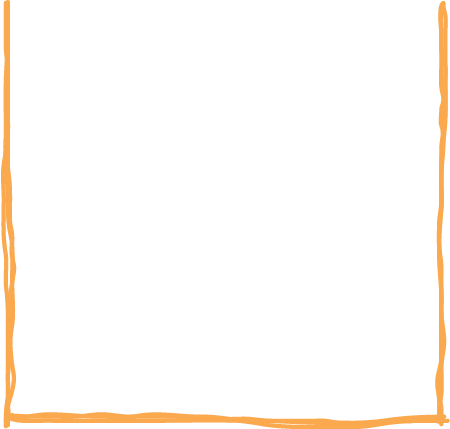
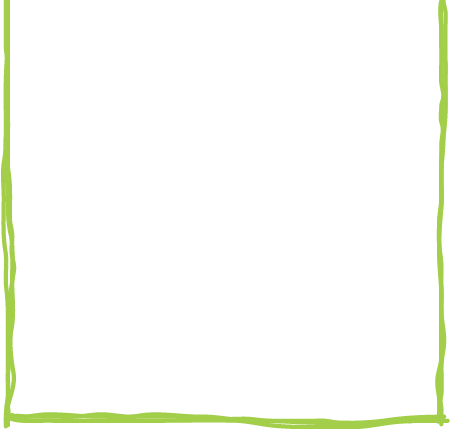
spacing and menu tweaks

Changed region(s): [[0.0, 0.0, 1.0, 1.0]]

diff --git a/inspiration.html b/inspiration.html
@@ -37,7 +37,55 @@
         <option value="0">Week 1: Used to Dislike</option>
         <option value="1">Week 2: Vegan</option>
         <option value="2">Week 3: Spicy</option>
-        <option value="3">Week 4: Crunchy</option>
+        <option value="3">Week 4: Fusion</option>
+        <option value="4">Week 5: Crunchy</option>
+        <option value="5">Week 6: Hot Dish</option>
+        <option value="6">Week 7: Chocolate</option>
+        <option value="7">Week 8: Caribbean</option>
+        <option value="8">Week 9: Movie, Book, or TV Inspired</option>
+        <option value="9">Week 10: At Home Takeout</option>
+        <option value="10">Week 11: Irish</option>
+        <option value="11">Week 12: Eggs</option>
+        <option value="12">Week 13: Matzah</option>
+        <option value="13">Week 14: Caramelized</option>
+        <option value="14">Week 15: Sandwiches</option>
+        <option value="15">Week 16: Dim Sum</option>
+        <option value="16">Week 17: Copycat Recipes</option>
+        <option value="17">Week 18: Tex-Mex</option>
+        <option value="18">Week 19: Knifework</option>
+        <option value="19">Week 20: Noodles</option>
+        <option value="20">Week 21: Mystery Ingredient</option>
+        <option value="21">Week 22: Your Heritage</option>
+        <option value="22">Week 23: Street Food</option>
+        <option value="23">Week 24: Filipino</option>
+        <option value="24">Week 25: Marinated</option>
+        <option value="25">Week 26: Finger Foods</option>
+        <option value="26">Week 27: Picnic</option>
+        <option value="27">Week 28: Inspired by a Color</option>
+        <option value="28">Week 29: Southern</option>
+        <option value="29">Week 30: Salad</option>
+        <option value="30">Week 31: Garlic</option>
+        <option value="31">Week 32: Corn</option>
+        <option value="32">Week 33: Local Ingredients</option>
+        <option value="33">Week 34: Pickled</option>
+        <option value="34">Week 35: On a Stick</option>
+        <option value="35">Week 36: Burgers</option>
+        <option value="36">Week 37: Julia Child</option>
+        <option value="37">Week 38: Honey</option>
+        <option value="38">Week 39: Chickpeas</option>
+        <option value="39">Week 40: Japanese</option>
+        <option value="40">Week 41: Breakfast</option>
+        <option value="41">Week 42: Deep Fried</option>
+        <option value="42">Week 43: Potatoes</option>
+        <option value="43">Week 44: Squash</option>
+        <option value="44">Week 45: Gordon Ramsay</option>
+        <option value="45">Week 46: Soup</option>
+        <option value="46">Week 47: Cranberries</option>
+        <option value="47">Week 48: Leftovers</option>
+        <option value="48">Week 49: $10 or Less</option>
+        <option value="49">Week 50: Stuffed</option>
+        <option value="50">Week 51: Pies</option>
+        <option value="51">Week 52: Fancy Ingredients</option>
       </select>
     </div>
 
@@ -49,9 +97,11 @@
         <h4>Directions</h4>
         <ol id="recipe-directions"></ol>
       </div>
-      <div class="suggestions-container">
-        <h3 id="suggestions-name"></h3>
-        <ul id="suggestions-list"></ul>
+      <div class="vertical-flex">
+        <div class="suggestions-container">
+          <h3 id="suggestions-name"></h3>
+          <ul id="suggestions-list"></ul>
+        </div>
       </div>
     </div>
   </div>

diff --git a/inspiration.css b/inspiration.css
@@ -396,6 +396,13 @@ input:focus {
     background-size: 100% 100%;
     padding: 3em 5em 4em 5em;
     margin: 1em 1em 1em 2em;
+    flex-basis: 55%;
+}
+
+.vertical-flex {
+    display: flex;
+    flex-direction: column;
+    flex-basis: 30%;
 }
 
 .suggestions-container {
@@ -403,7 +410,7 @@ input:focus {
     background-repeat: no-repeat;
     background-position: center;
     background-size: 100% 100%;
-    padding: 2em 3em;
+    padding: 2em 4em 3em 4em;
     margin: 1em 2em 1em 1em;
 }
 
@@ -423,6 +430,7 @@ li {
 
 .suggestions-container li {
     padding: .25em 0;
+    font-size: 1.2em;
 }
 
 .suggestions-container ul {
@@ -455,13 +463,14 @@ li {
   .select-selected:after {
     position: absolute;
     content: "";
-    top: 14px;
-    right: 10px;
-    width: 15%;
+    top: 12px;
+    right: 15px;
+    width: 7%;
     height: 50%;
     background-image: url(img/select-arrow.png);
     background-position: center;
     background-repeat: no-repeat;
+    background-size: contain;
   }
   
   /* Point the arrow upwards when the select box is open (active): */
@@ -481,8 +490,8 @@ li {
   .select-items {
     position: absolute;
     background-image: url(img/dropdown-bg.png);    
-    background-size: 100% 100%;
-    height: 10em;
+    background-size: 100% 101%;
+    height: 11em;
     overflow: scroll;
     top: 81%;
     left: 0;
@@ -496,5 +505,5 @@ li {
   }
   
   .select-items div:hover, .same-as-selected {
-    background-color: rgba(162, 206, 74, 0.1);
+    background-color: rgba(250, 169, 79, 0.1);
   }

diff --git a/main.css b/main.css
@@ -395,6 +395,7 @@ input:focus {
     background-size: 100% 100%;
     padding: 2em 5em;
     margin: 1em 1em 1em 2em;
+    width: 55vw;
 }
 
 .suggestions-container {
